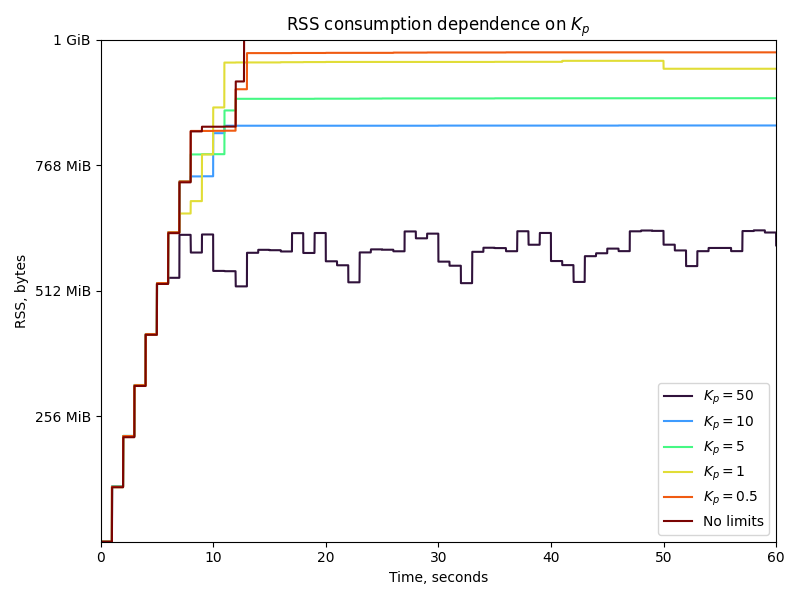
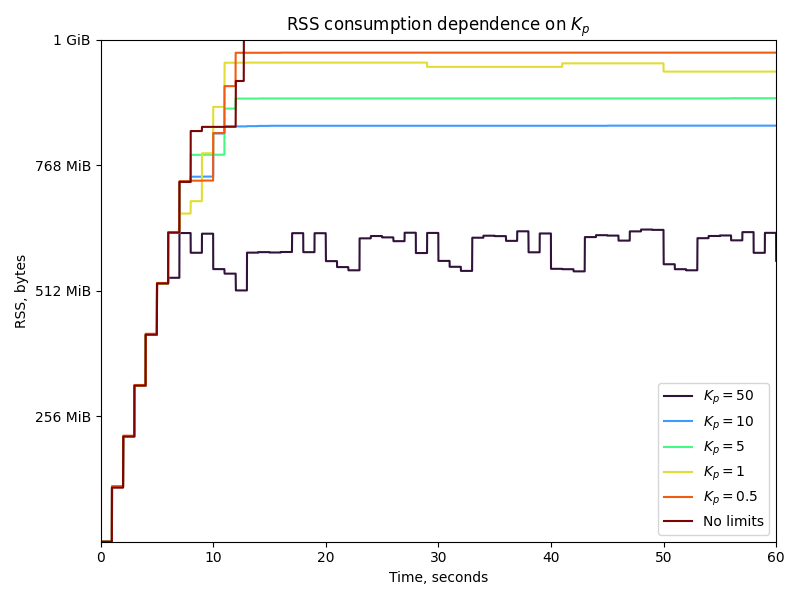
MLN-666 | fix: highlight OOM

diff --git a/README.md b/README.md
@@ -107,9 +107,9 @@ These plots may give you some inspiration on how $K_{p}$ value affects the physi
 
 And the summary plot with RSS consumption dependence on $K_{p}$ value:
 
-![RSS](docs/rss.png)
+![RSS](docs/rss_hl.png)
 
 The general conclusion is that:
-* Disabling MemLimiter causes OOM;
-* Too low and too high $K_{p}$ values cause control parameter self-oscillation;
 * The higher the $K_{p}$ is, the lower the $RSS$ consumption.
+* Too low and too high $K_{p}$ values cause self-oscillation of control parameters;
+* Disabling MemLimiter causes OOM;
